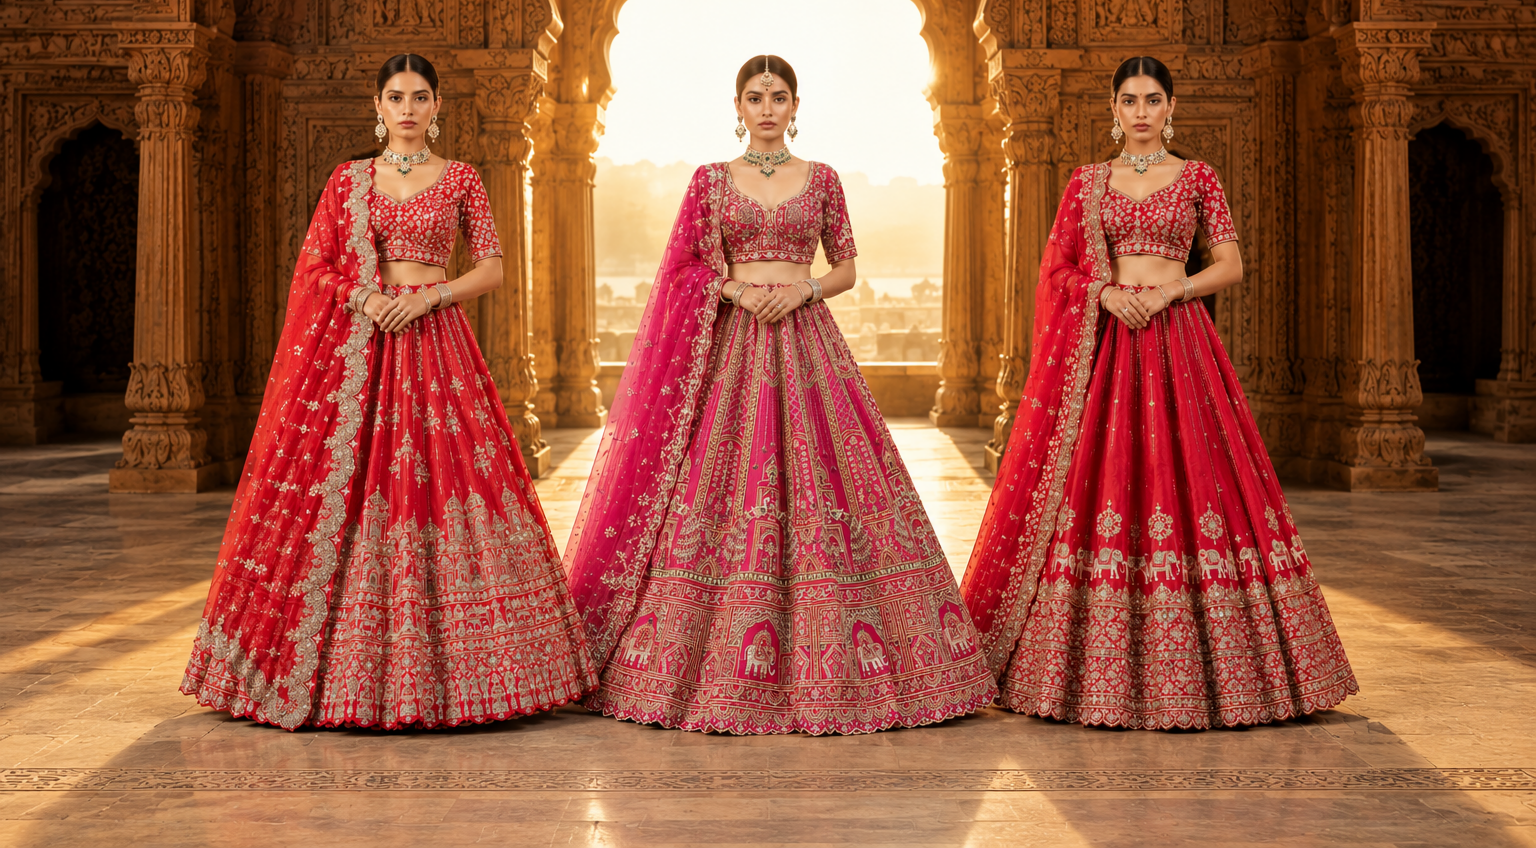
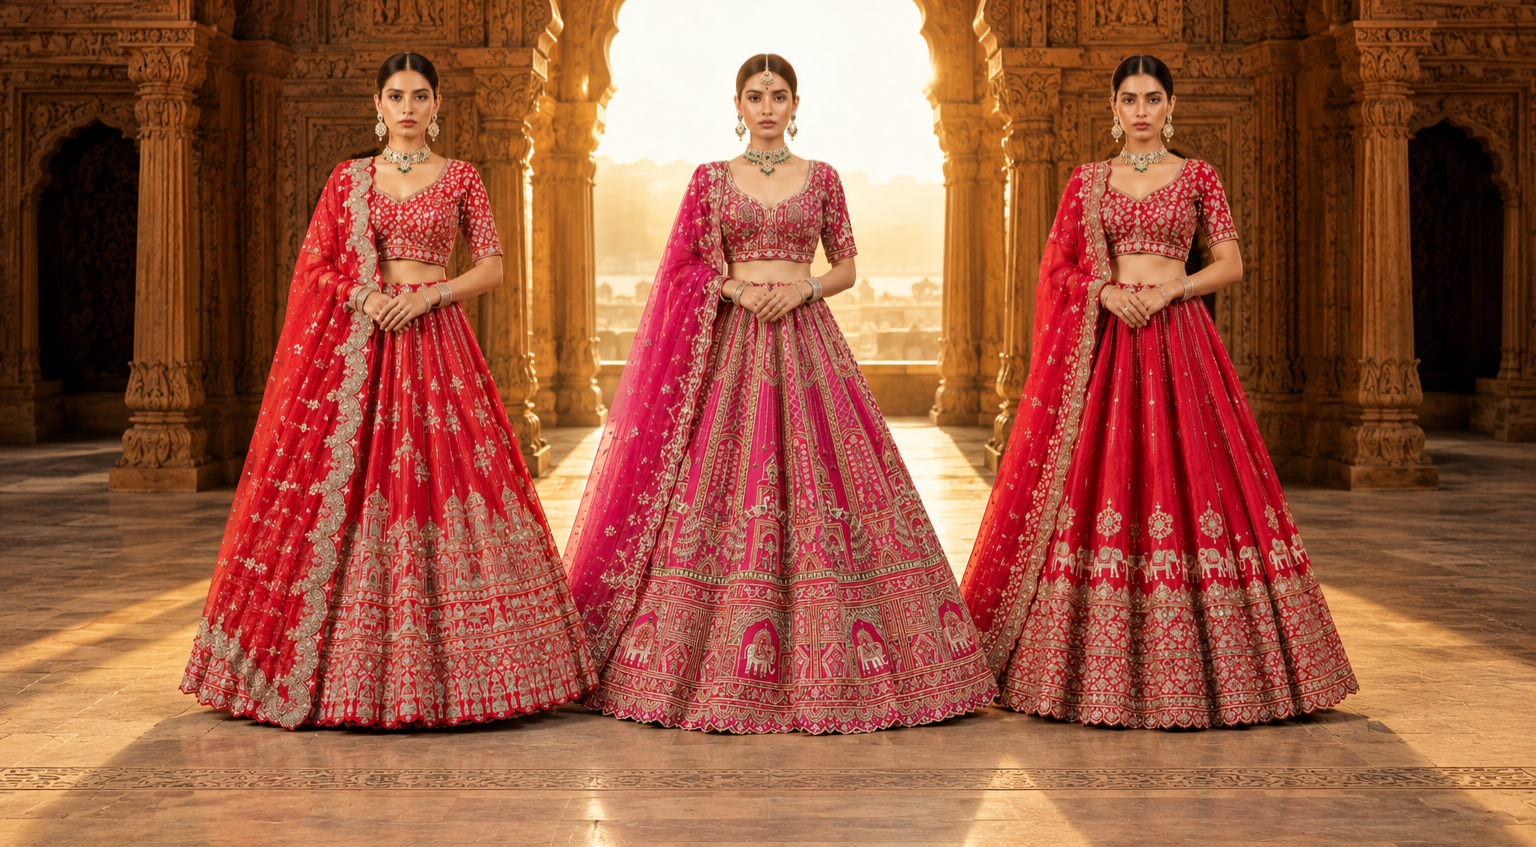
Use a portrait hero2.png crop for mobile, hero.png from sm up
Uses a <picture><source media> swap (max-width: 639px) so the browser
picks the right crop per viewport with no JS — hero2.png (1050x1498,
portrait) on phones, hero.png (1536x1024, landscape) everywhere else.

diff --git a/src/pages/HomePage.tsx b/src/pages/HomePage.tsx
@@ -47,11 +47,15 @@ function MarqueeTicker() {
 function Hero() {
   return (
     <section className="relative min-h-[480px] overflow-hidden" style={{ height: "80vh" }}>
-      <img
-        src="/hero.png"
-        alt="MATWALJI bridal lehengas"
-        className="absolute inset-0 w-full h-full object-cover object-top"
-      />
+      <picture>
+        {/* Portrait crop on small screens, wide crop from sm (640px) up */}
+        <source media="(max-width: 639px)" srcSet="/hero2.png" />
+        <img
+          src="/hero.png"
+          alt="MATWALJI bridal lehengas"
+          className="absolute inset-0 w-full h-full object-cover object-top"
+        />
+      </picture>
 
       {/* Subtle black overlay — keeps the centered text legible without hiding the image */}
       <div className="absolute inset-0" style={{ background: "rgba(0,0,0,0.32)" }} />
